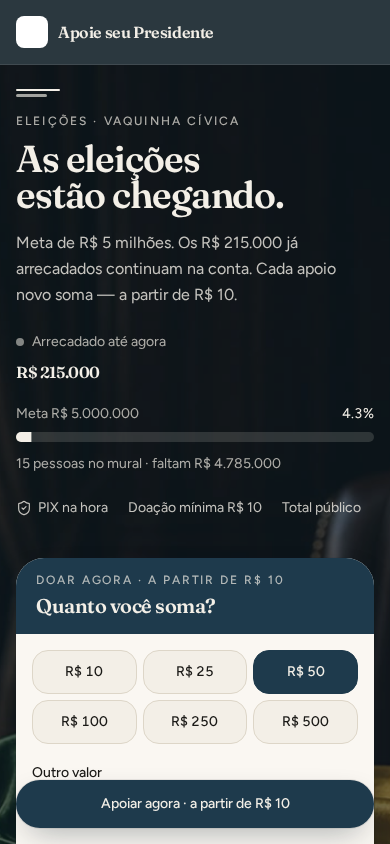
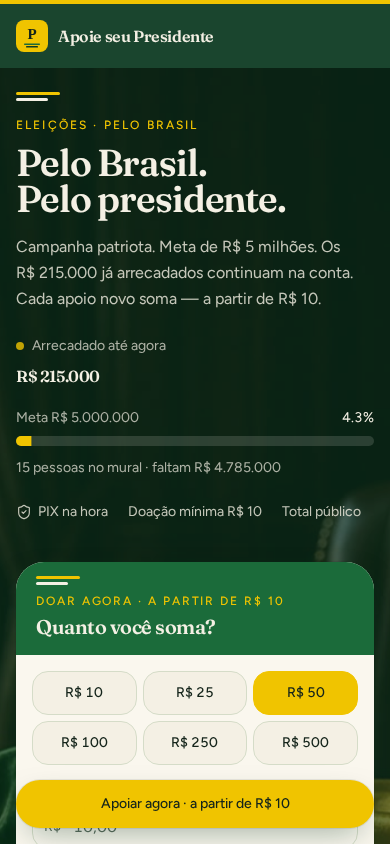
Marca patriota: verde, amarelo e copy Pelo Brasil.
Atualiza selo, cartão OG e a vaquinha com a identidade da campanha.

Changed region(s): [[0.0, 0.5853, 1.0, 1.0], [0.0, 0.0, 1.0, 0.3697], [0.0308, 0.4005, 0.9538, 0.6161]]

diff --git a/src/components/donate-card.tsx b/src/components/donate-card.tsx
@@ -128,7 +128,11 @@ export function DonateCard() {
       className="scroll-mt-24 overflow-hidden rounded-2xl bg-card text-card-foreground shadow-[var(--shadow-lift)]"
     >
       <div className="bg-primary px-5 py-3.5 text-primary-foreground sm:px-6">
-        <p className="text-xs font-medium uppercase tracking-[0.16em] text-primary-foreground/70">
+        <div className="sash sash-flag" aria-hidden="true">
+          <span />
+          <span />
+        </div>
+        <p className="mt-2 text-xs font-medium uppercase tracking-[0.16em] text-accent">
           Doar agora · a partir de R$ 10
         </p>
         <h2 className="mt-1 font-display text-xl font-semibold tracking-tight sm:text-2xl">

diff --git a/src/components/faq-list.tsx b/src/components/faq-list.tsx
@@ -21,7 +21,7 @@ const items = [
   },
   {
     q: "Para onde vai o dinheiro?",
-    a: "Para o Comitê Apoie seu Presidente: presença nos estados, comunicação cívica e estrutura de apoio popular. Não é tesouro oficial nem conta de governo.",
+    a: "Para o Comitê Apoie seu Presidente: presença nos estados, comunicação e estrutura de apoio popular. Campanha patriota, não tesouro oficial nem conta de governo.",
   },
 ];
 

diff --git a/src/routes/index.tsx b/src/routes/index.tsx
@@ -27,7 +27,7 @@ const impacts = [
     icon: Map,
     label: "Estados com comitê",
     value: "27",
-    detail: "presença em todo o país",
+    detail: "em todo o Brasil",
   },
   {
     icon: Users,
